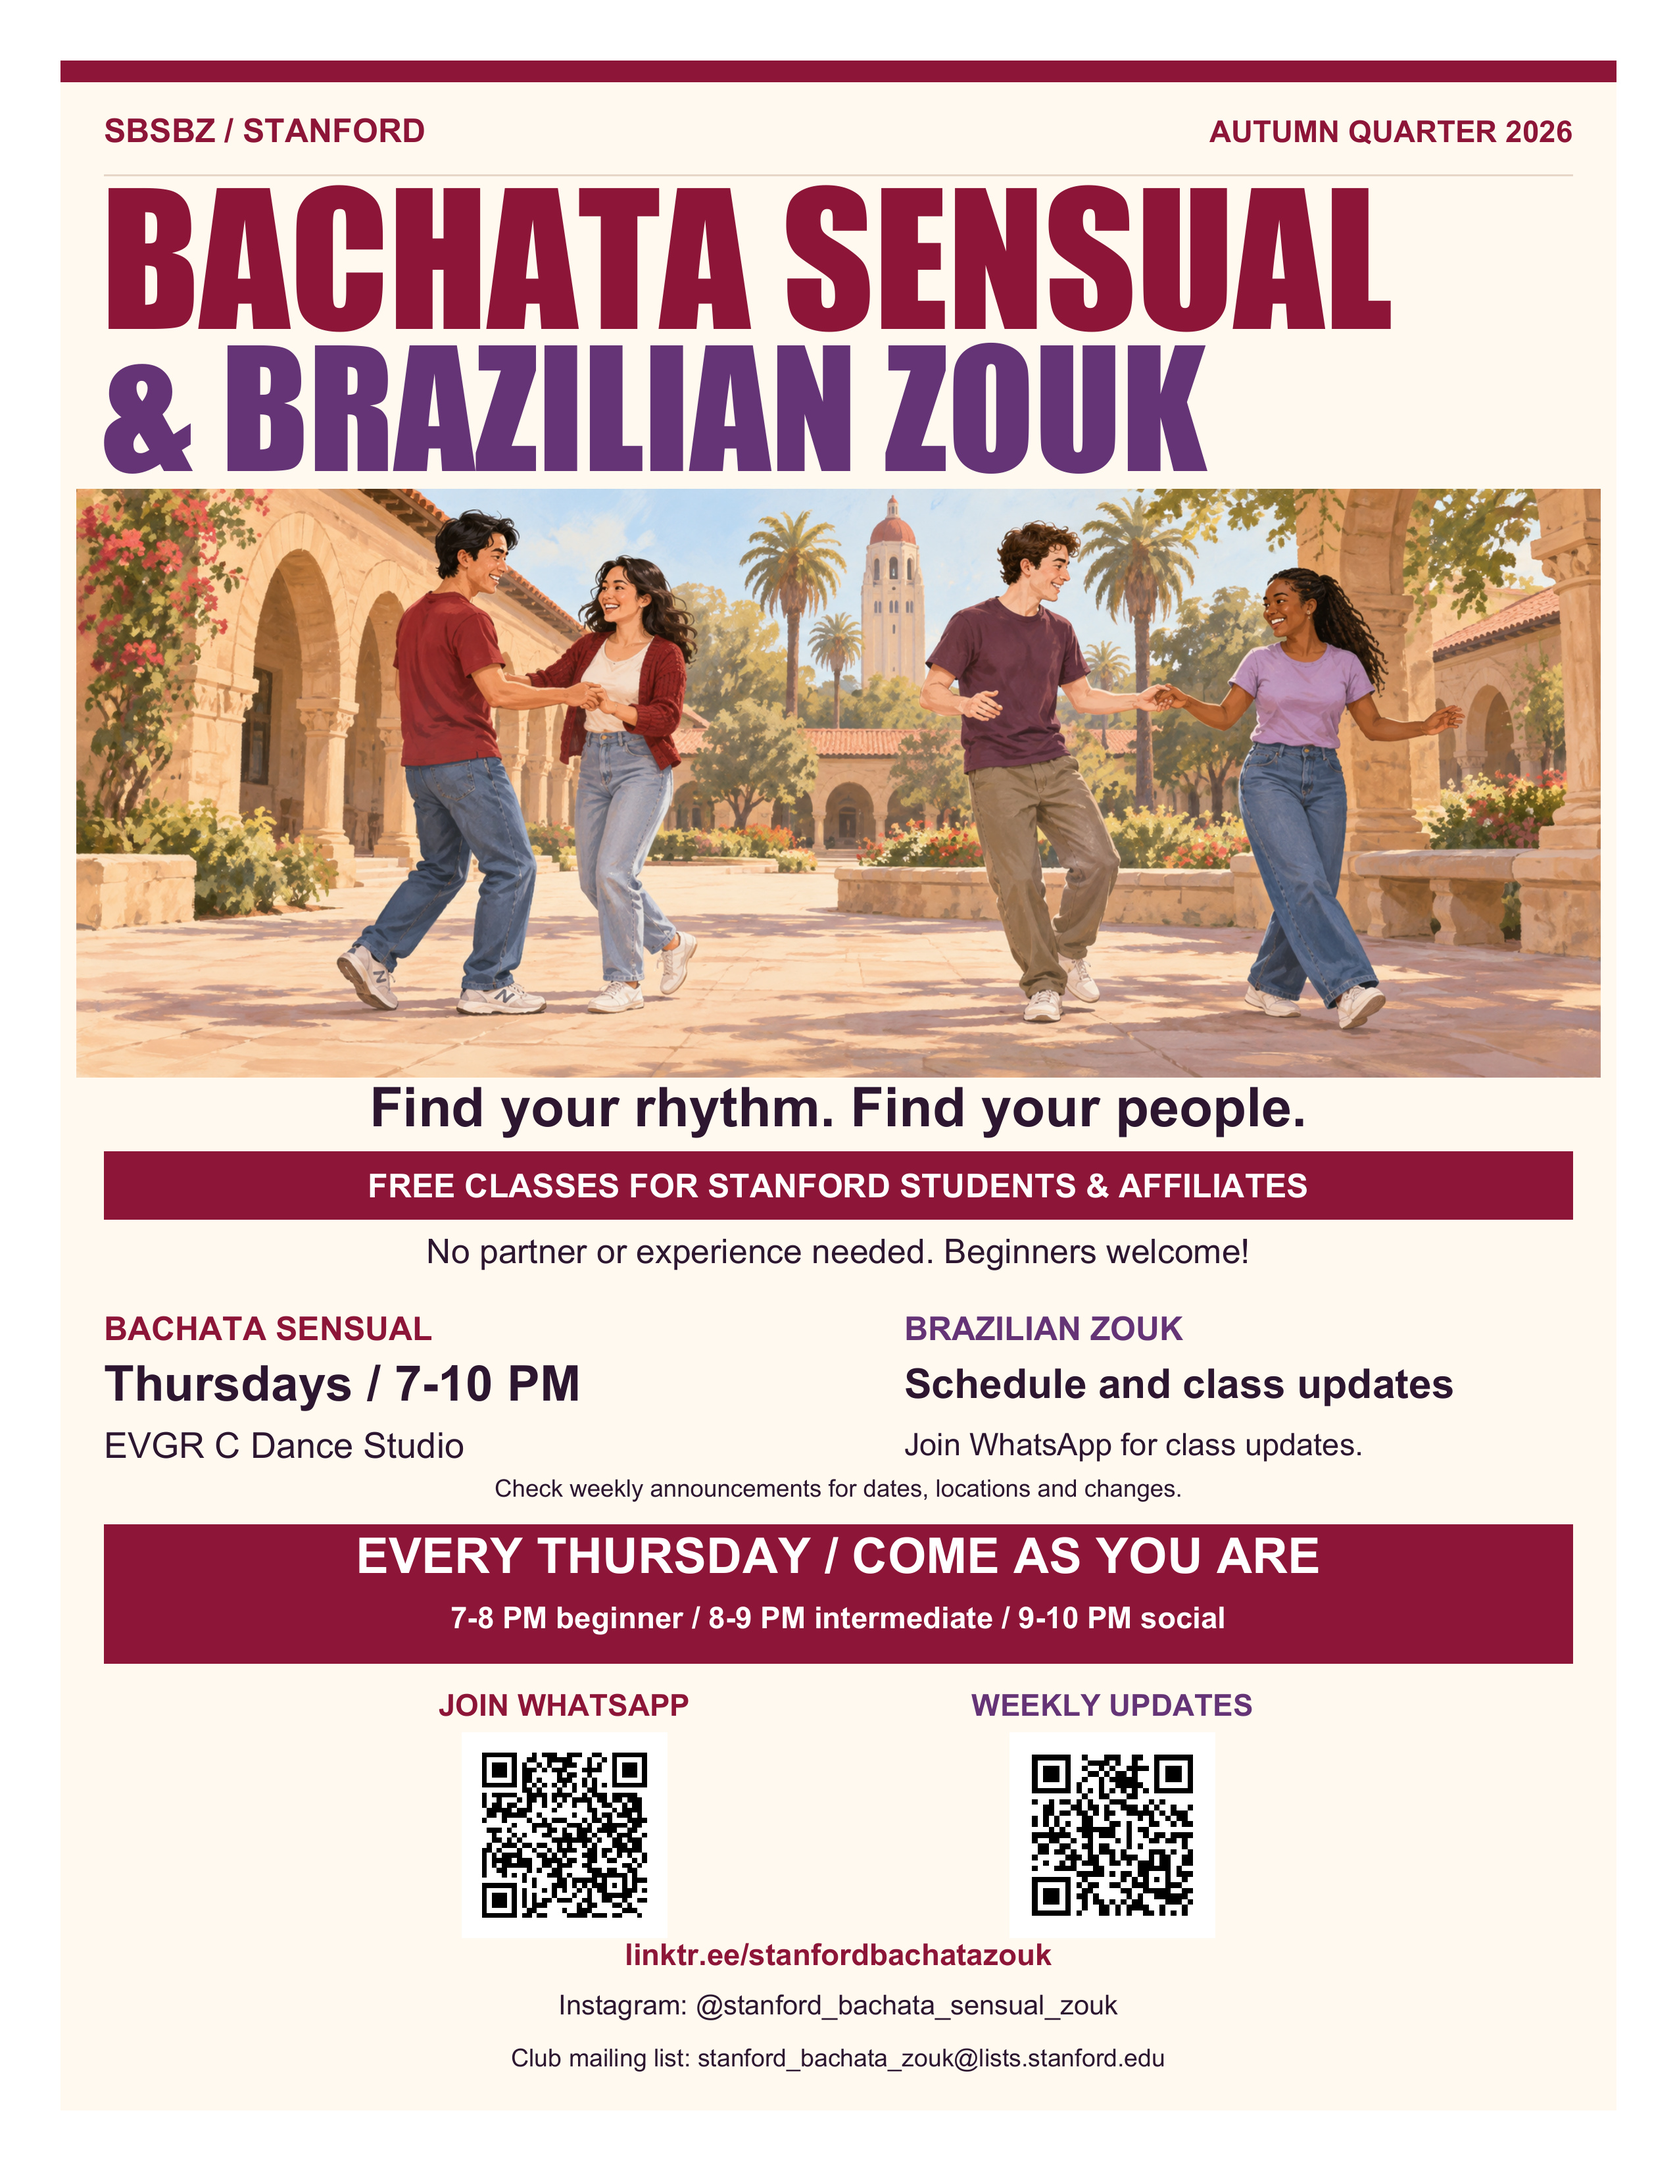
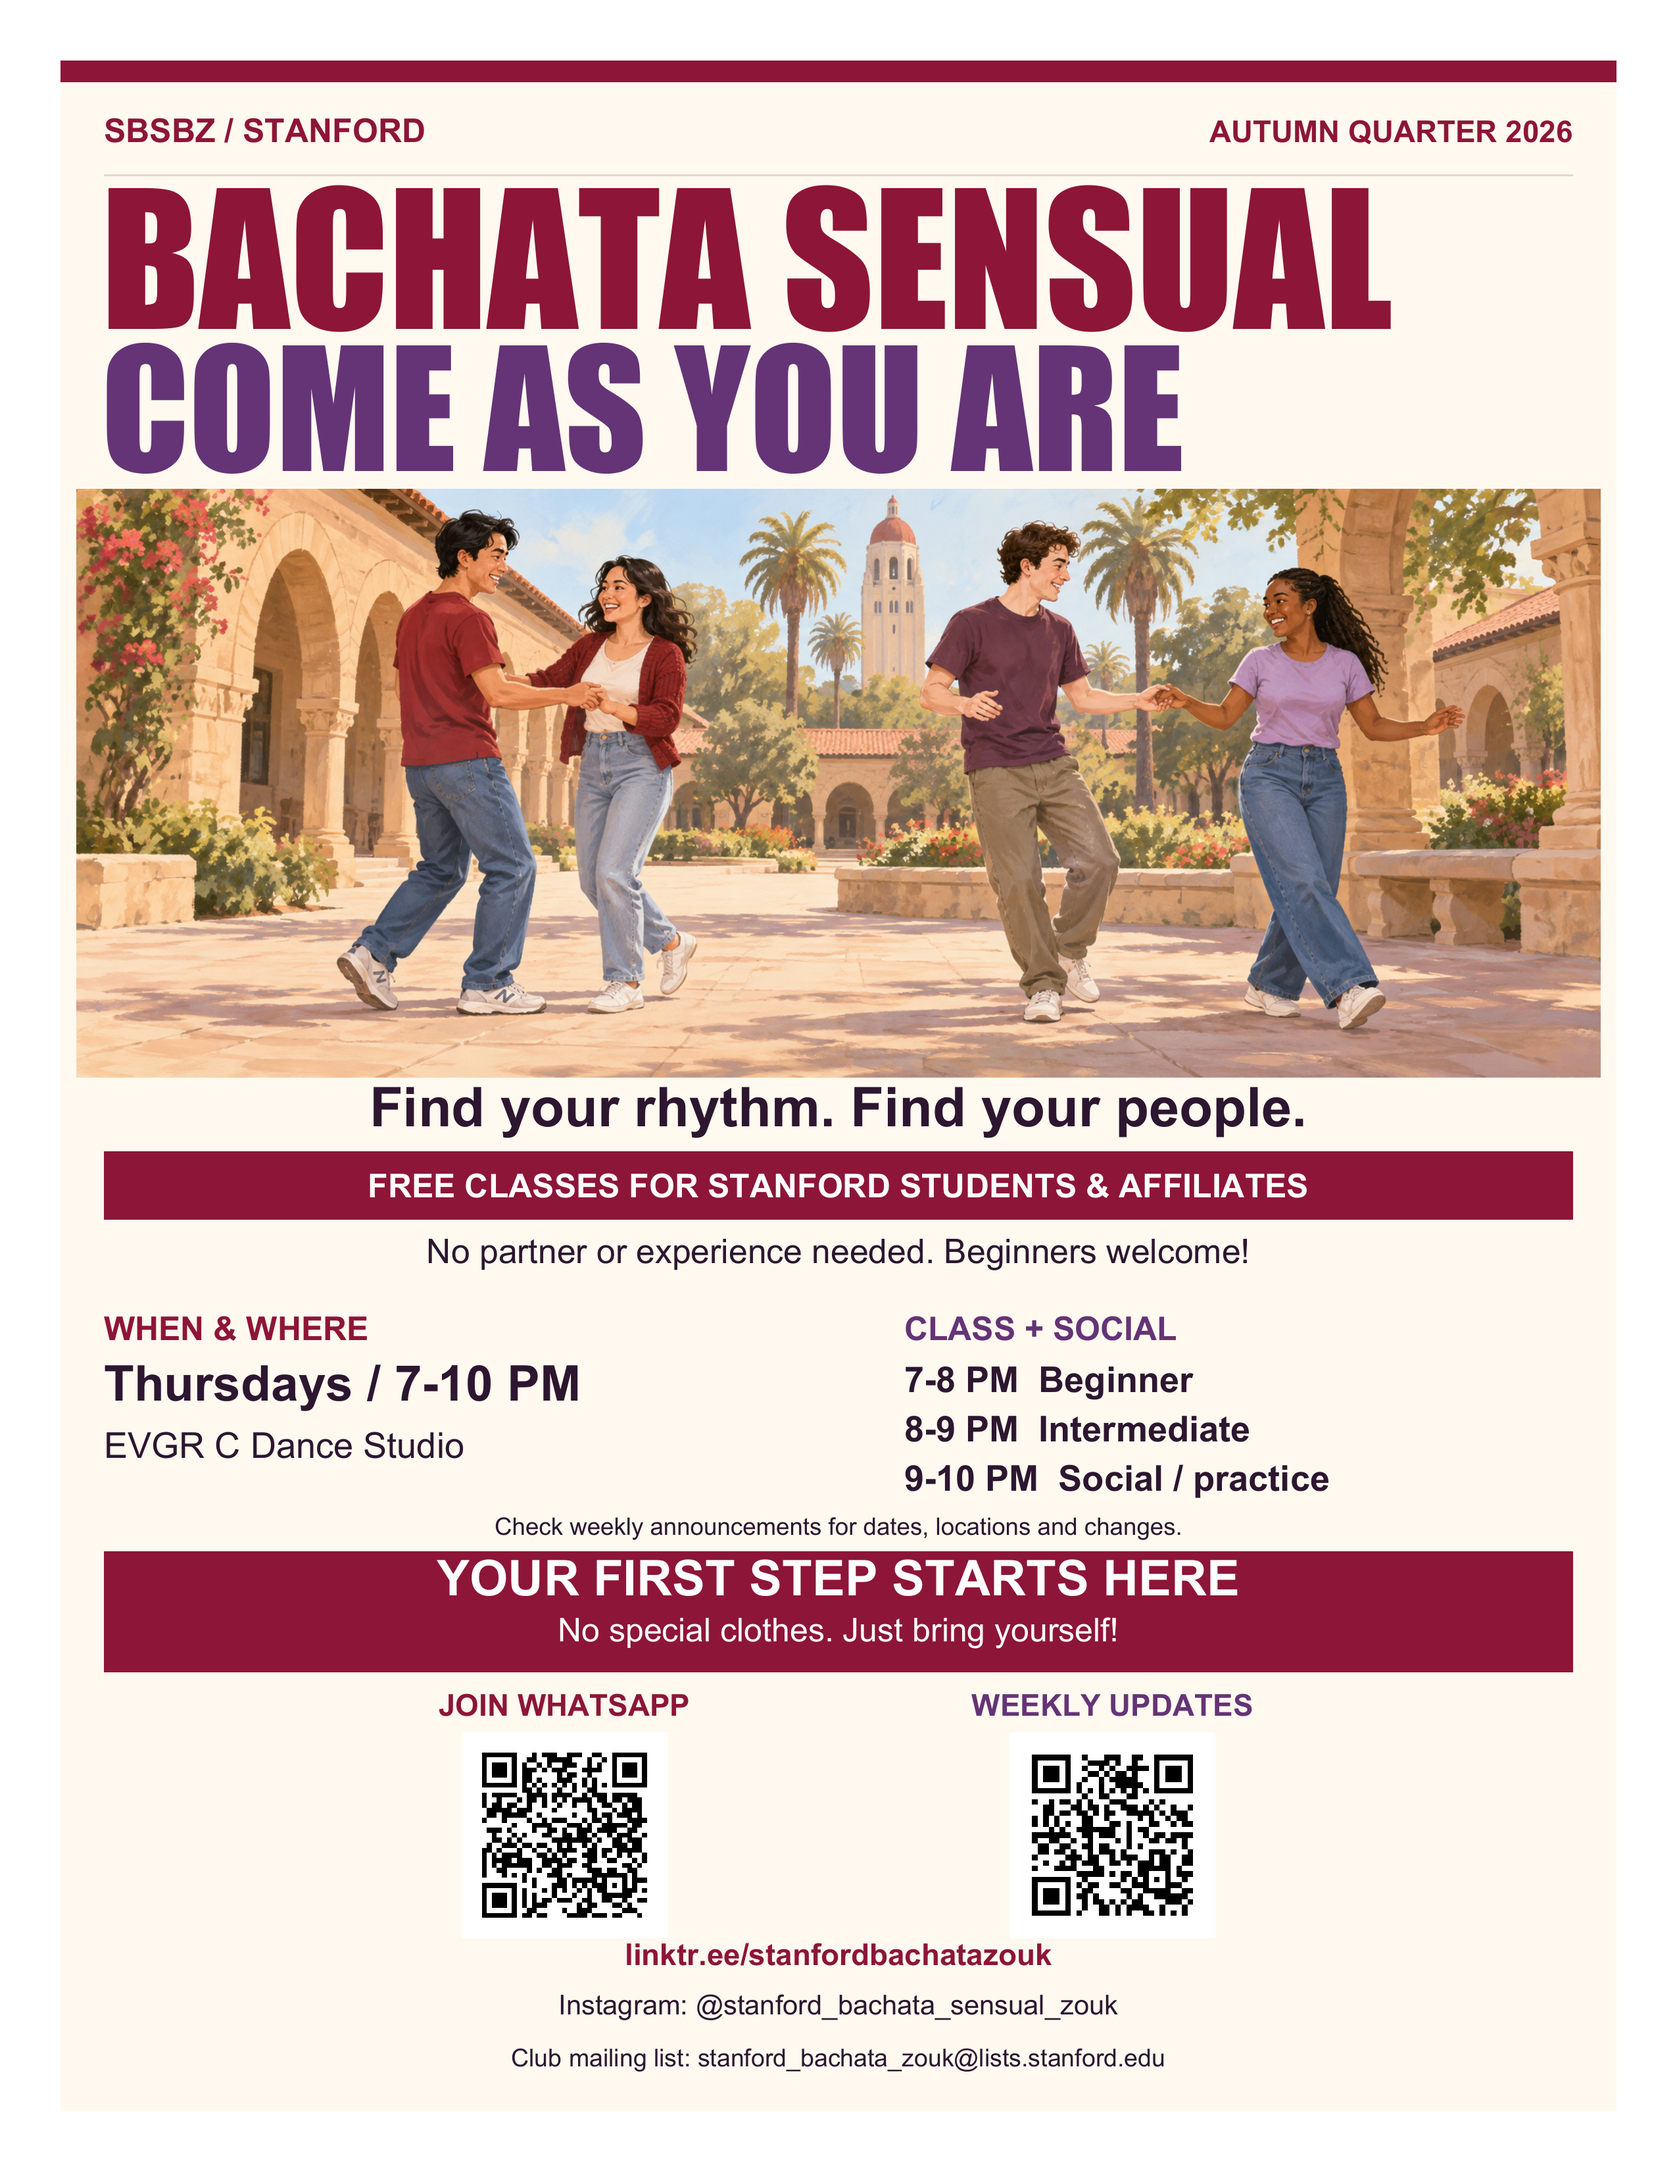
Replace current flyer downloads with Bachata-only corrected assets

Changed region(s): [[0.062, 0.593, 0.9604, 0.7803], [0.062, 0.1561, 0.7125, 0.2185], [0.062, 0.593, 0.2478, 0.6242]]

diff --git a/events/10-08-2026-weekly-advertising/README.md b/events/10-08-2026-weekly-advertising/README.md
@@ -14,3 +14,5 @@ Free for Stanford students and affiliates; beginners welcome, with no partner or
 | JPEG image, social sharing | [JPEG flyer](assets/SBSBZ-Weekly-Class-Student-Friendly-10-08-2026.jpg) | [Drive JPEG](https://drive.google.com/file/d/15WOXh7h-UJ6SFD-M565AZls3HCBEknFt/view) |
 
 Use the [group advertising protocol](../../docs/group-advertising.md) for audience duplicate checks, editor eligibility and frequency. Attachments are subject to channel rules; Dance-News accepts no attachments. Keep private correspondence, recipient lists, screenshots and dispatch receipts outside the public repository.
+
+Asset correction on 10-08-2026: current downloads promote Bachata only, with the original campus-casual illustration and club links preserved. The file names and public download URLs are unchanged. [Portable Network Graphics (PNG) image](assets/SBSBZ-Weekly-Class-Student-Friendly-10-08-2026.png) and [asset verification](assets/verification.json) accompany the print and social formats.
